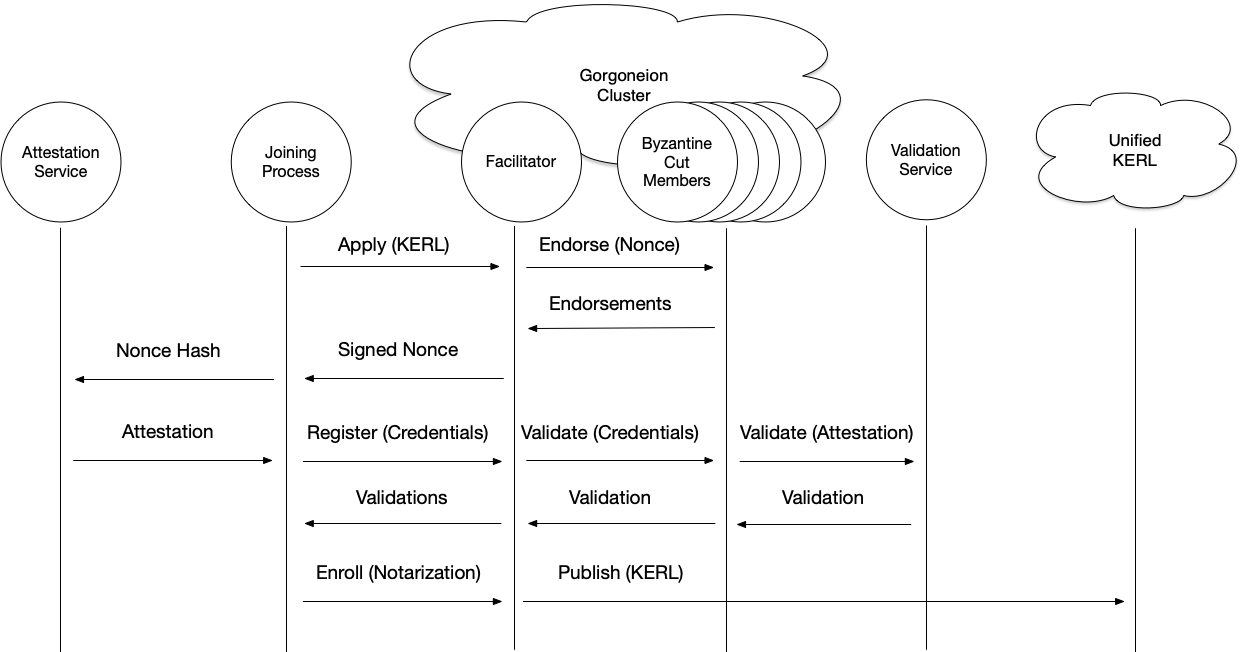
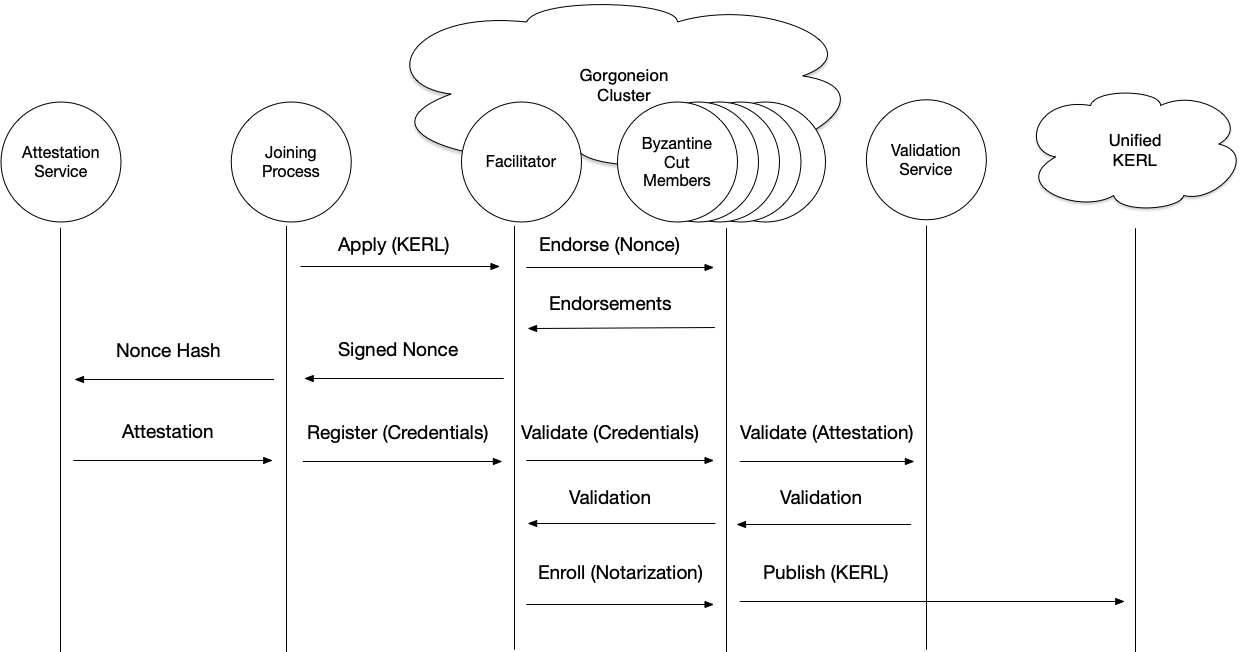
correct the protocol documentation :)
heh

diff --git a/gorgoneion/README.md b/gorgoneion/README.md
@@ -25,10 +25,9 @@ Gorgoneion is the implementation of a protocol that transforms trusted attestati
 7. The joining member then sends the Credential to any member in the Gorgoneion cluster
 8. This facilitating member then passes the Credential to the validating members (the original byzantine cut) for validation of the included attestation
 9. Validating members of the byzantine cut call the attestation validation service (which may be local functionality, rather than a seperate service).
-10. When validated, the members return the KERI validation for the joining member's KERL
-11. The facilitation member then returns the gathered validations to the joining member
-12. The joining member creates the Notarization - the combination of the joining member's KERL and Validations - and sends this to a member of the cluster
-13. The facilitating member validates the Notarization and if valid then publishes the joining member's KERL and associated Validations to the destination Unified KERL
+10. When validated, the members return the KERI validation for the joining member's KERL 
+12. The falcilitating member uses the the gathered validations to create the Notarization - the combination of the joining member's KERL and Validations
+13. The facilitating member sends the Notarization to the byzantine cut membership subset which then validates there is a majority of validations and then publishes the joining member's KERL and associated Validations to the destination Unified KERL
 
 # Certificate Authority Functionality
 Note that the Gorgoneion protocol serves the same function as a centralized Certification Authority (CA).  At the end of the protocol, the joining member's KERL serves as the equivalent of a certificate from that member that is now "signed" by the CA.  The difference is that the KERL is far more flexible and powerful than a simple Certificate and can evolve, rotate and interact in all the forms that KERI facilitates.  This evolving KERL is accepted into the group as validated through the Byzantine subset of the Gorgoneion cluster's membership as well as validated via an integrated attestation service such as AWS, GCP, Azure or even private clouds or SGX/TPM mechanisms.
